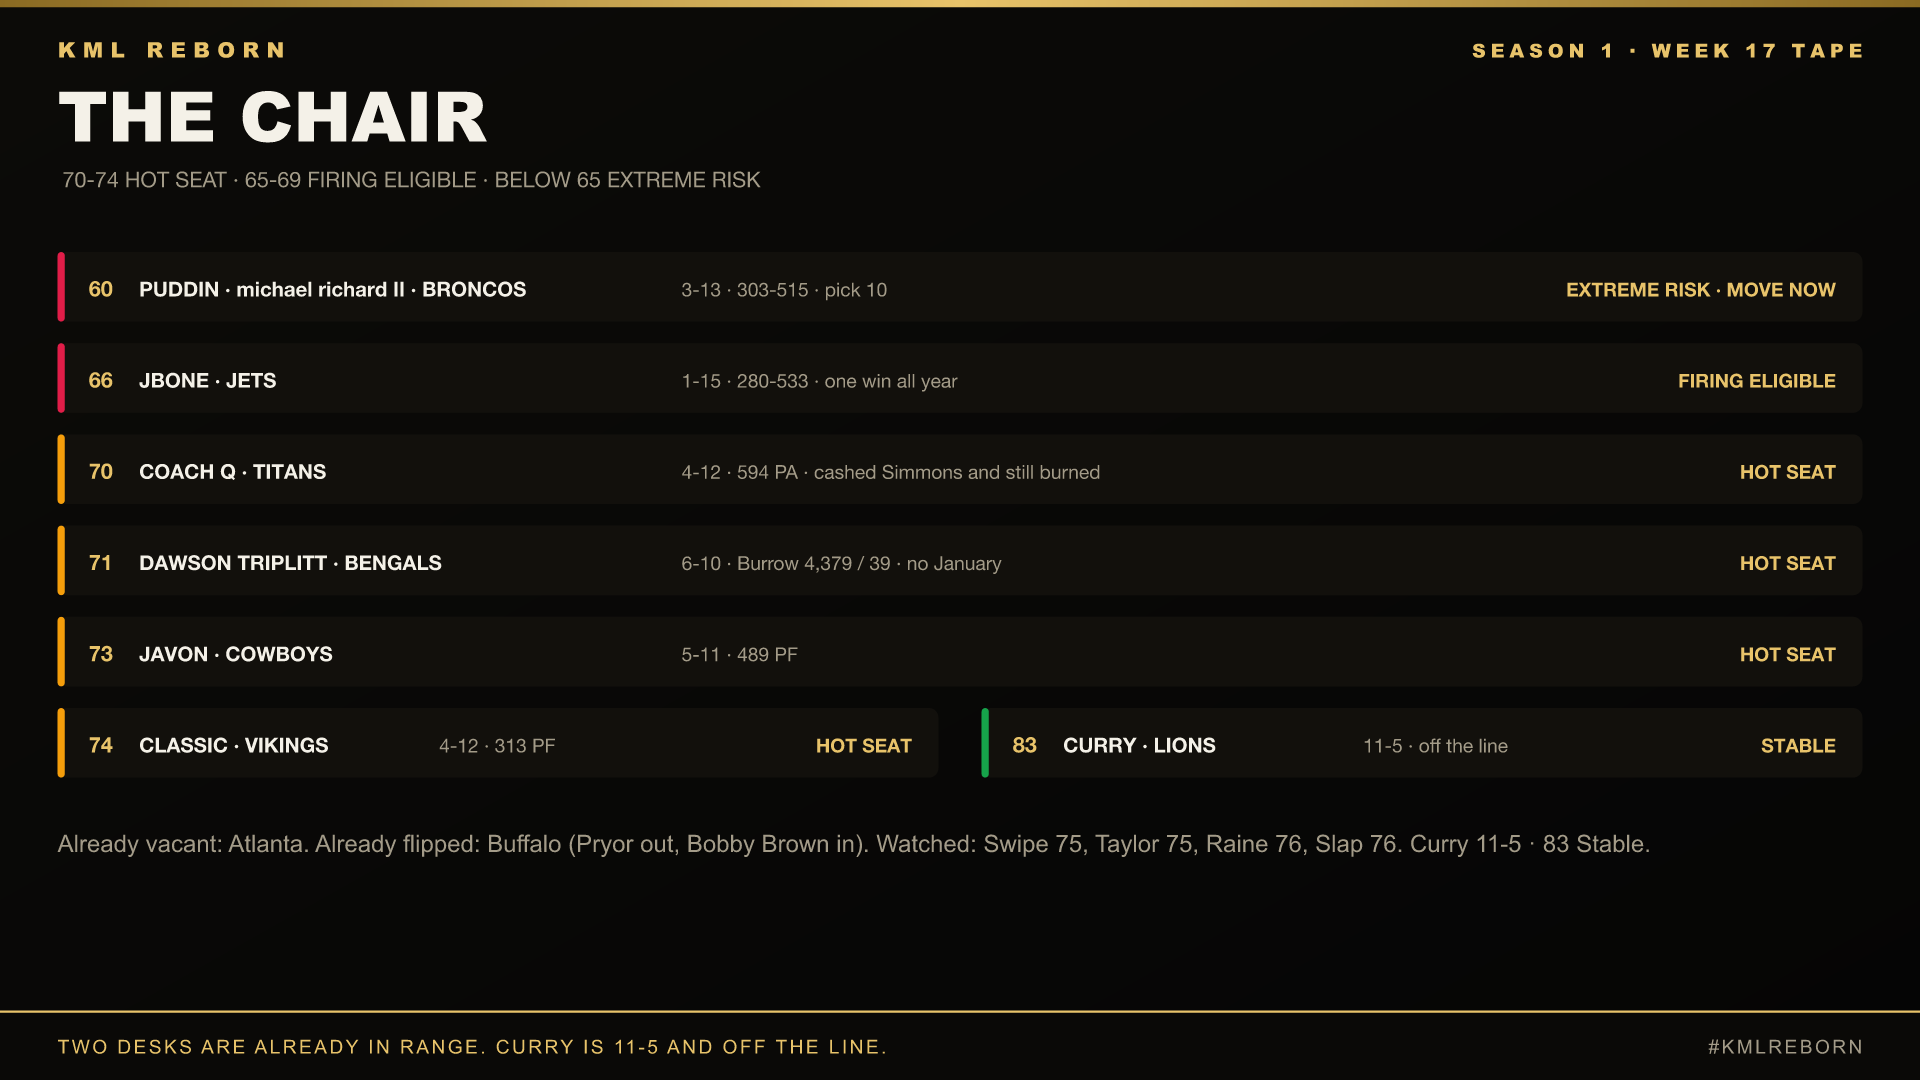
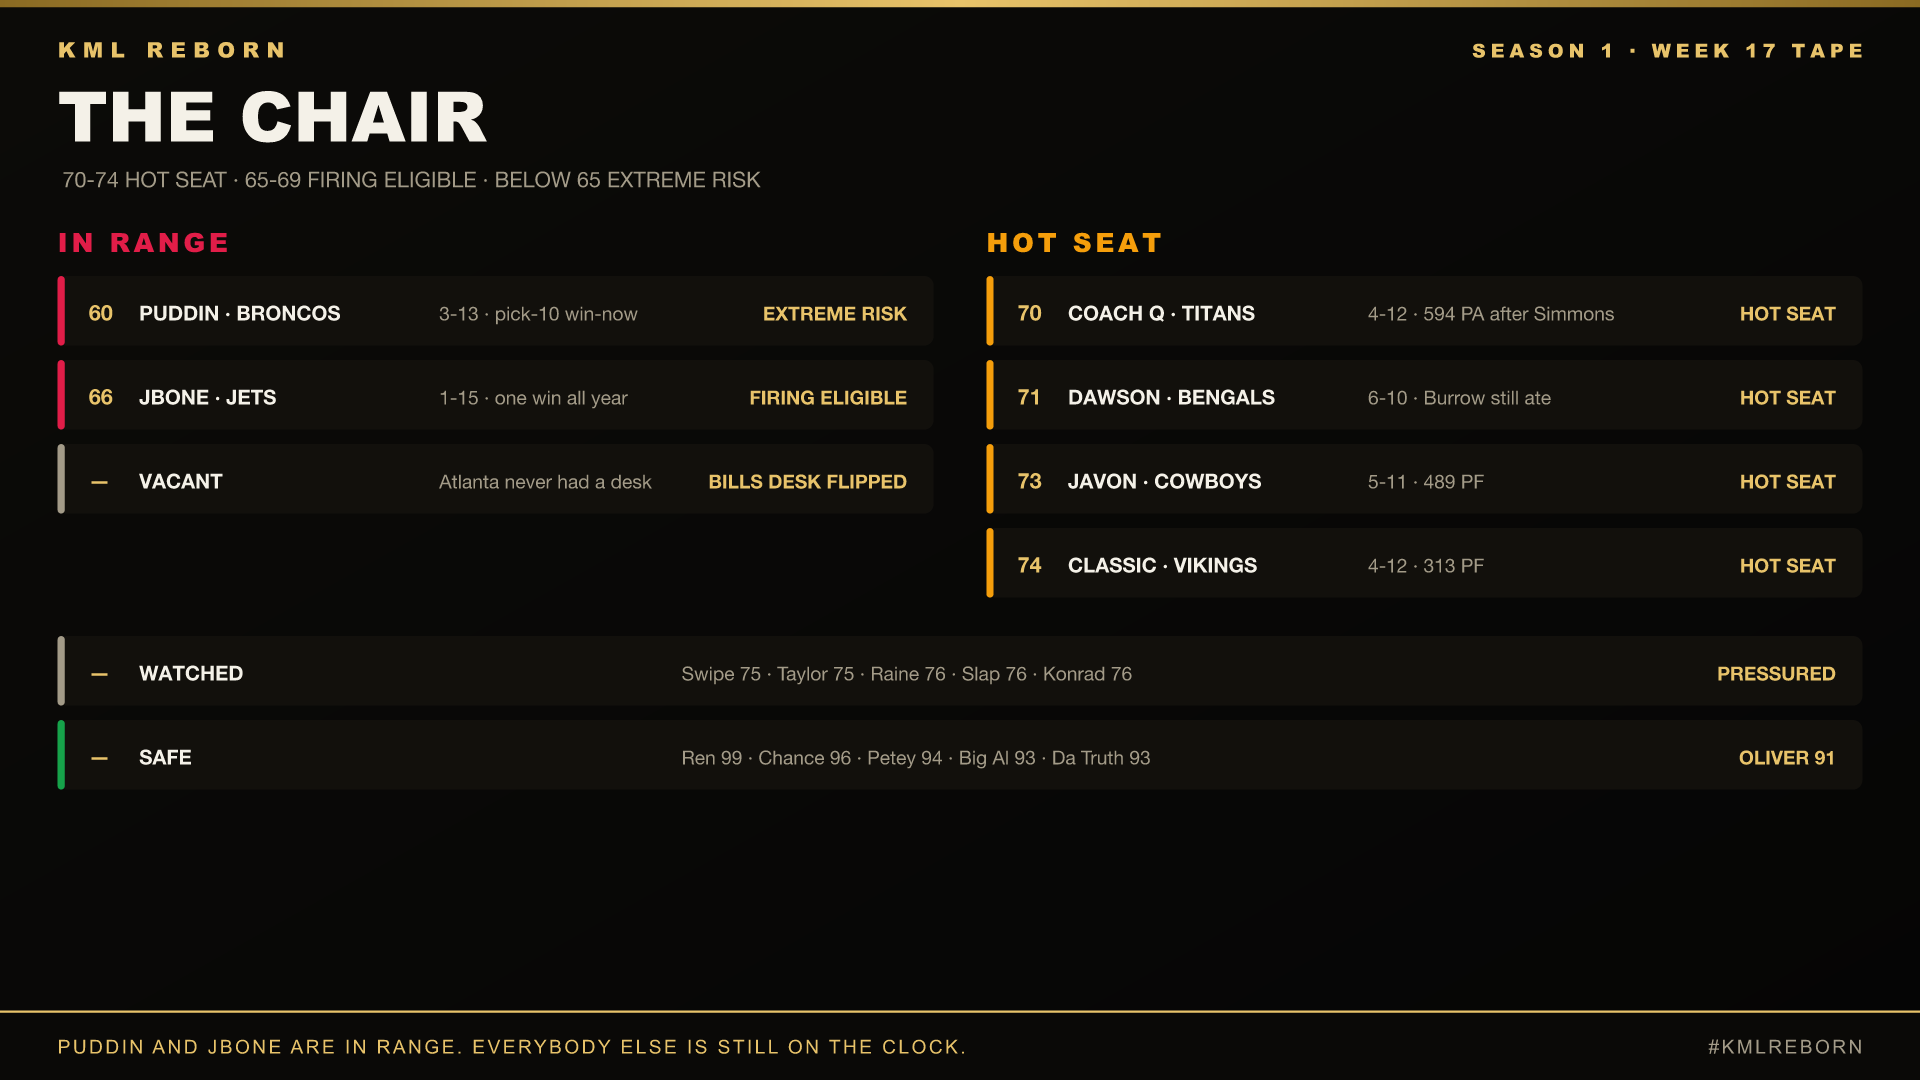
Rebuild the year-end standouts and chair boards so Denver is the letdown and Curry stays off the chair.

diff --git a/src/lib/stories.ts b/src/lib/stories.ts
@@ -105,9 +105,7 @@ The rest of the room that earned a sentence: **Phillip Reaves** is 11–5 and 94
 
 ## The disappointments
 
-The Lions are first. That is the fight — the scar, not the chair.
-
-**Curry is 11–5 and 83 Stable.** Detroit scored **571 points**, second only to New England. Gibbs is the MVP. The Lions are the 7-seed if Week 18 holds. The 44–3 is still the loudest loss of the year. A 1-pick that goes into Green Bay as a wild card is a disappointment. It is not a firing. The 1-pick still has to live with Chance. He does not have to live with a pink slip.
+Denver is first. That is not a debate.
 
 **michael richard II is 3–13 and 60.** Puddin. Pick 10. Win-now club. 303 points scored, 515 allowed. Below 65 is Extreme Risk. The commissioner can move now. Kansas City blanked them in the middle of the year and the year never came back.
 
@@ -115,11 +113,13 @@ The Lions are first. That is the fight — the scar, not the chair.
 
 **Coach Q is 4–12.** Tennessee allowed **594 points**, last in the league. He cashed Swipe’s 20-point Simmons haul in Week 8 and the Titans still could not get off the field. Carnell Tate was real. The building was not. 70 is the Hot Seat. It is also a meeting.
 
-**xLeftsideee is 12–4 and Pressured at 82.** Lefty still has Saquon. He still has a division lead. He still has the 61–35 Javon hung on him in Week 7, and the board never gave the 92 back. A 12-win club wearing a C is the other fight in this league.
-
 **RoyalxSwipa is 10–6 and 75.** Twenty points of draft capital for Jeffery Simmons. The Morning Show said it then: the move might not move the needle in January, and it would be a backlash if it did not. San Francisco is on the bubble. Arizona is Sunday. That is the needle.
 
-The rest of the letdown pile: **Coach Javon Smith** scored 489 points and won five games. **Classic Secondline** is 4–12 in Minnesota. Atlanta is vacant and 3–13. Buffalo is 5–11, and the chair already flipped — Pryor is not the name on the standings anymore. **Bobby Brown** is.
+**Coach Javon Smith** scored 489 points and won five games. That is a 5–11 with toys. The 61–35 over Lefty was the loudest Sunday he had. It did not become a season.
+
+The rest of the letdown pile: **xLeftsideee** is 12–4 and still Pressured at 82 because the board never gave the 92 back after 61–35. **Classic Secondline** is 4–12 in Minnesota. Atlanta is vacant and 3–13. Buffalo is 5–11, and the chair already flipped — Pryor is not the name on the standings anymore. **Bobby Brown** is.
+
+**Curry is 11–5 and 83 Stable.** Detroit scored **571 points**, second only to New England. Gibbs is the MVP. The Lions are the 7-seed if Week 18 holds. The 44–3 is still the loudest loss of the year. That is a scar on a playoff club. It is not the letdown of Season 1.
 
 ## The chair
 
@@ -146,7 +146,7 @@ The safe list is short on purpose. Ren 99. Chance 96. Petey 94. Big Al 93. Da Tr
 
 Gibbs is the player of the year. Maye is the quarterback of the year if you only count volume. Love is the quarterback of the year if you count the 16 picks. Oweh is the rusher. Mendoza is the rookie. New England is the team.
 
-The disappointment of the year is not 1–15. Everybody saw 1–15 coming once it started. The disappointment of the year is a 1-pick that went 44–3 in Week 7 and still made January.
+The disappointment of the year is not an 11–5 with the MVP. Everybody who watched Denver coming out of the draft saw a pick-10 win-now club. Three wins is the letdown. One win in New York is the other one.
 
 The first coaching change of the offseason is already on the graphic. Puddin is 60. Jbone is 66. That is the chair.
 
